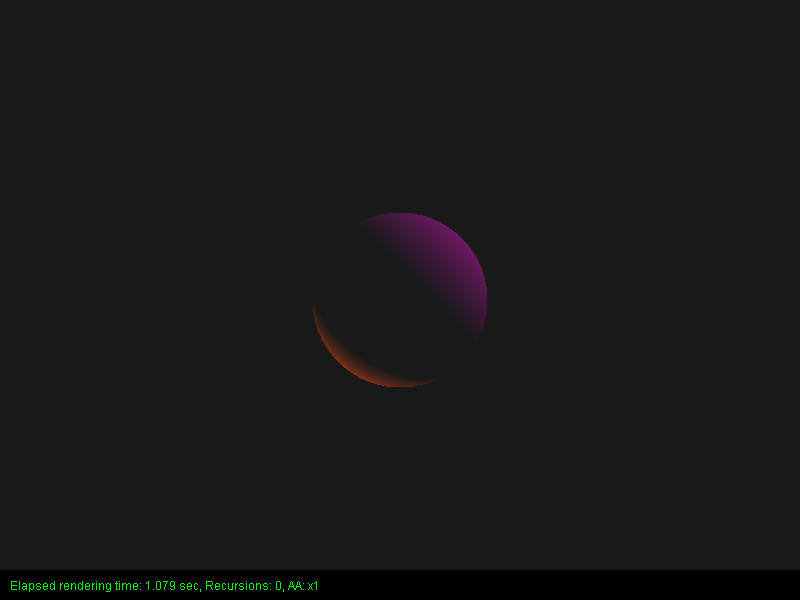
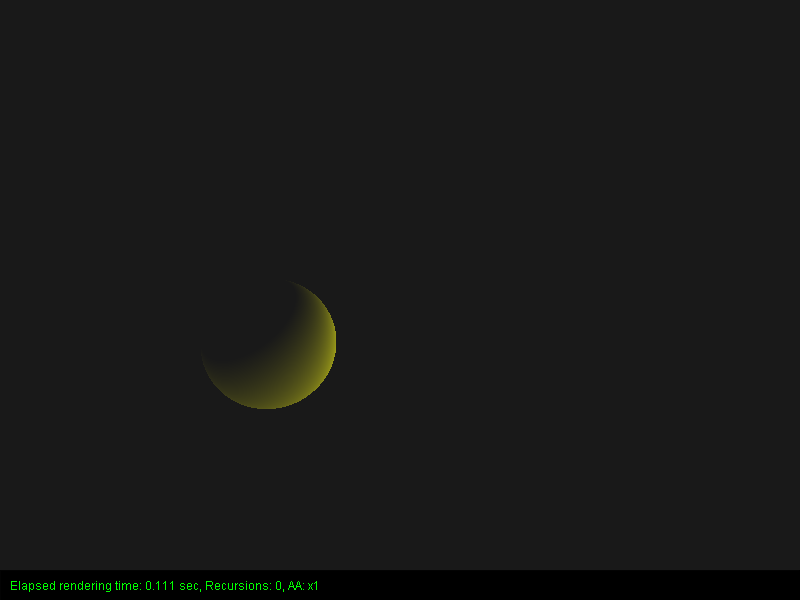
.

Changed region(s): [[0.2812, 0.48, 0.5312, 0.69], [0.4688, 0.33, 0.625, 0.54], [0.1875, 0.96, 0.2188, 0.99]]

diff --git a/VCG_Raytracer/src/scene/shape/Sphere.java b/VCG_Raytracer/src/scene/shape/Sphere.java
@@ -157,8 +157,11 @@ public class Sphere extends Shape{
     public Intersection intersect (Ray ray, int filler) {
         Intersection intersection = new Intersection();
 
-        Vec3 ray_origin = ray.getOrigin();
-        Vec3 ray_direction = ray.getDirection();
+        //tim testing with transformed ray
+        Ray transformedRay = createTransformedRay(ray);
+
+        Vec3 ray_origin = transformedRay.getOrigin();
+        Vec3 ray_direction = transformedRay.getDirection();
 
         //A = (float) Math.pow(checkRay.x, 2) + (float) Math.pow(checkRay.y, 2) + (float) Math.pow(checkRay.z, 2);
         //ist das selbe wie
@@ -201,6 +204,11 @@ public class Sphere extends Shape{
         intersection.setNormal(intersection.getIntersectionPoint().sub(position).normalize()); // Vector between intersection and sphere center = normal
         intersection.setShape(this); // for material
         intersection.setInRay(ray.calculateRayAt(t)); // primary Ray
+
+        //tim testing
+        intersection.setIntersectionPoint(myTransformationMatrix.multVec3(ray_origin.add(ray_direction.multScalar(t)), true));
+        intersection.setNormal(myTransformationMatrix.multVec3(intersection.getIntersectionPoint().normalize(), false));
+        intersection.setInRay(transformedRay.calculateRayAt(t)); 
 
         return intersection;
     }

diff --git a/VCG_Raytracer/src/scene/Scene.java b/VCG_Raytracer/src/scene/Scene.java
@@ -34,7 +34,7 @@ public class Scene {
         Material mat_lambert2 = new Lambert(new RgbColor(0.8f,0.8f,0.8f));
 
         //create spheres
-        createSphere(new Vec3(1.5f,1,0), 1.25f, mat_lambert);
+        //createSphere(new Vec3(1.5f,1,0), 1.25f, mat_lambert);
         createSphere(new Vec3(-1.5f,-0.5f,0), 0.75f, mat_lambert2);
 
         //create lights
@@ -137,7 +137,7 @@ public class Scene {
             Intersection temp = shape.intersect(ray, 0); //added 2nd param for testing
             //System.out.println(temp.isHit());
             if (temp.isHit() && temp.getDistance() < closest.getDistance()) {
-                System.out.println("SHAPE HIT");
+                //System.out.println("SHAPE HIT");
                 closest = temp;
             }
         }
